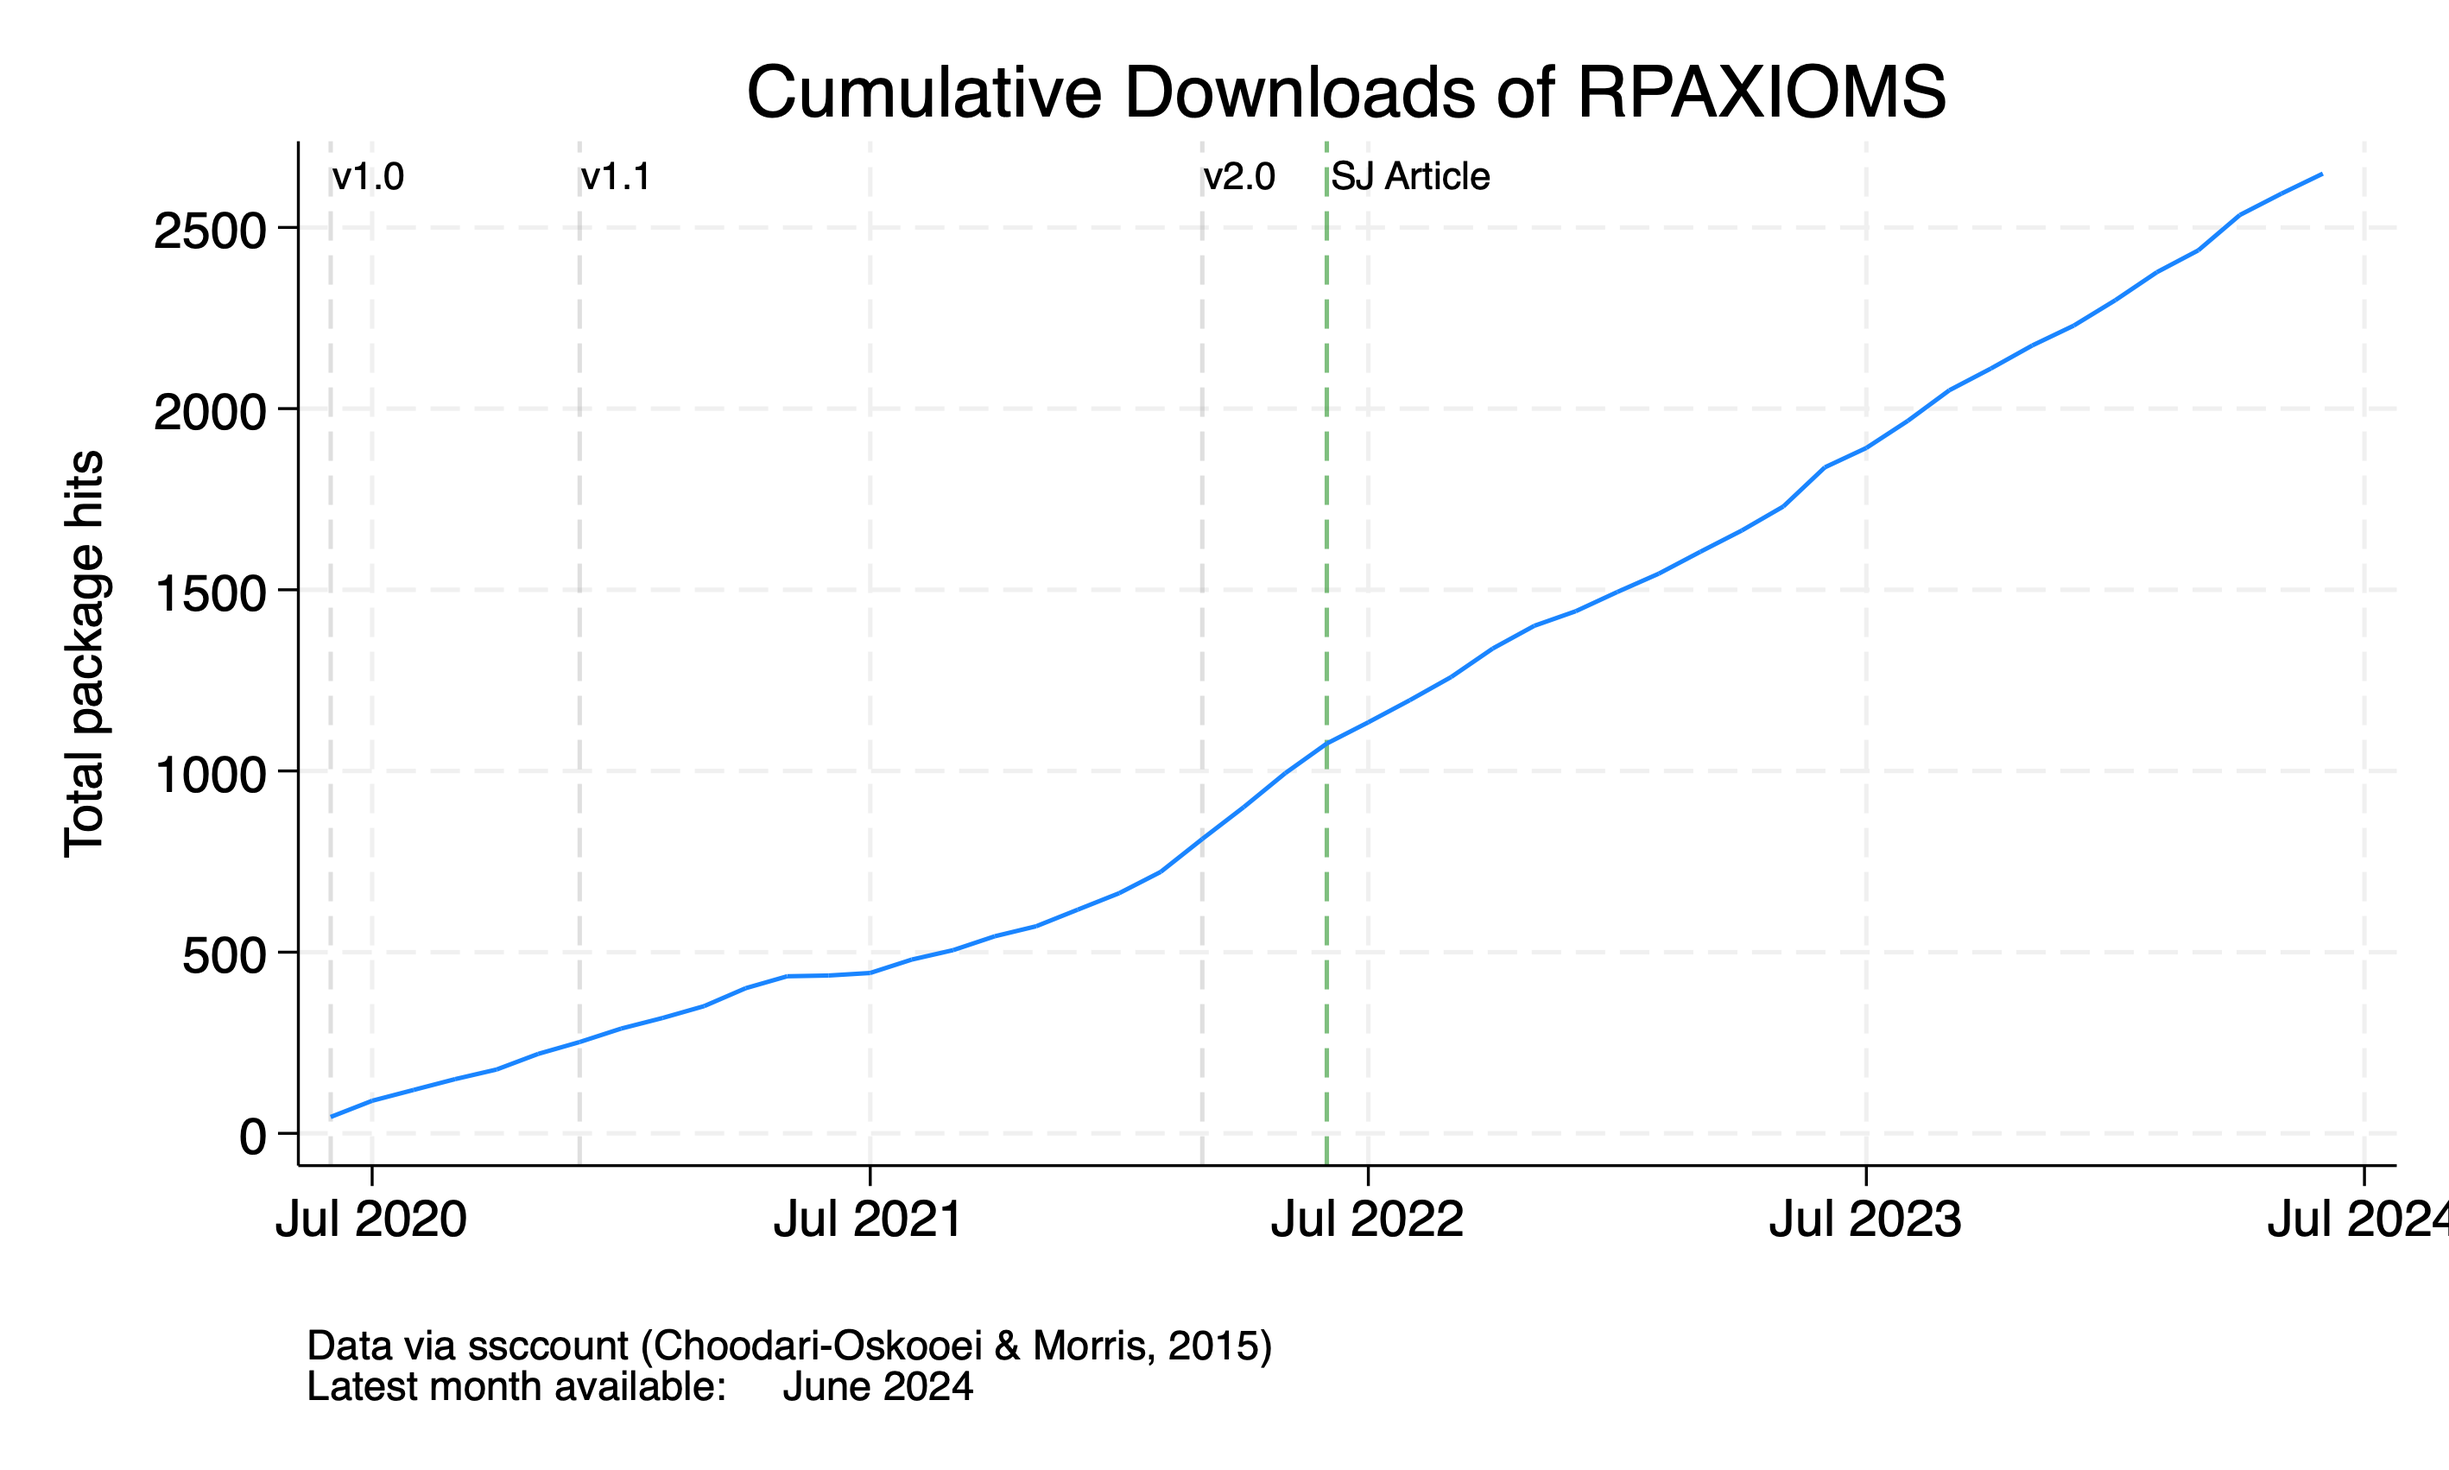
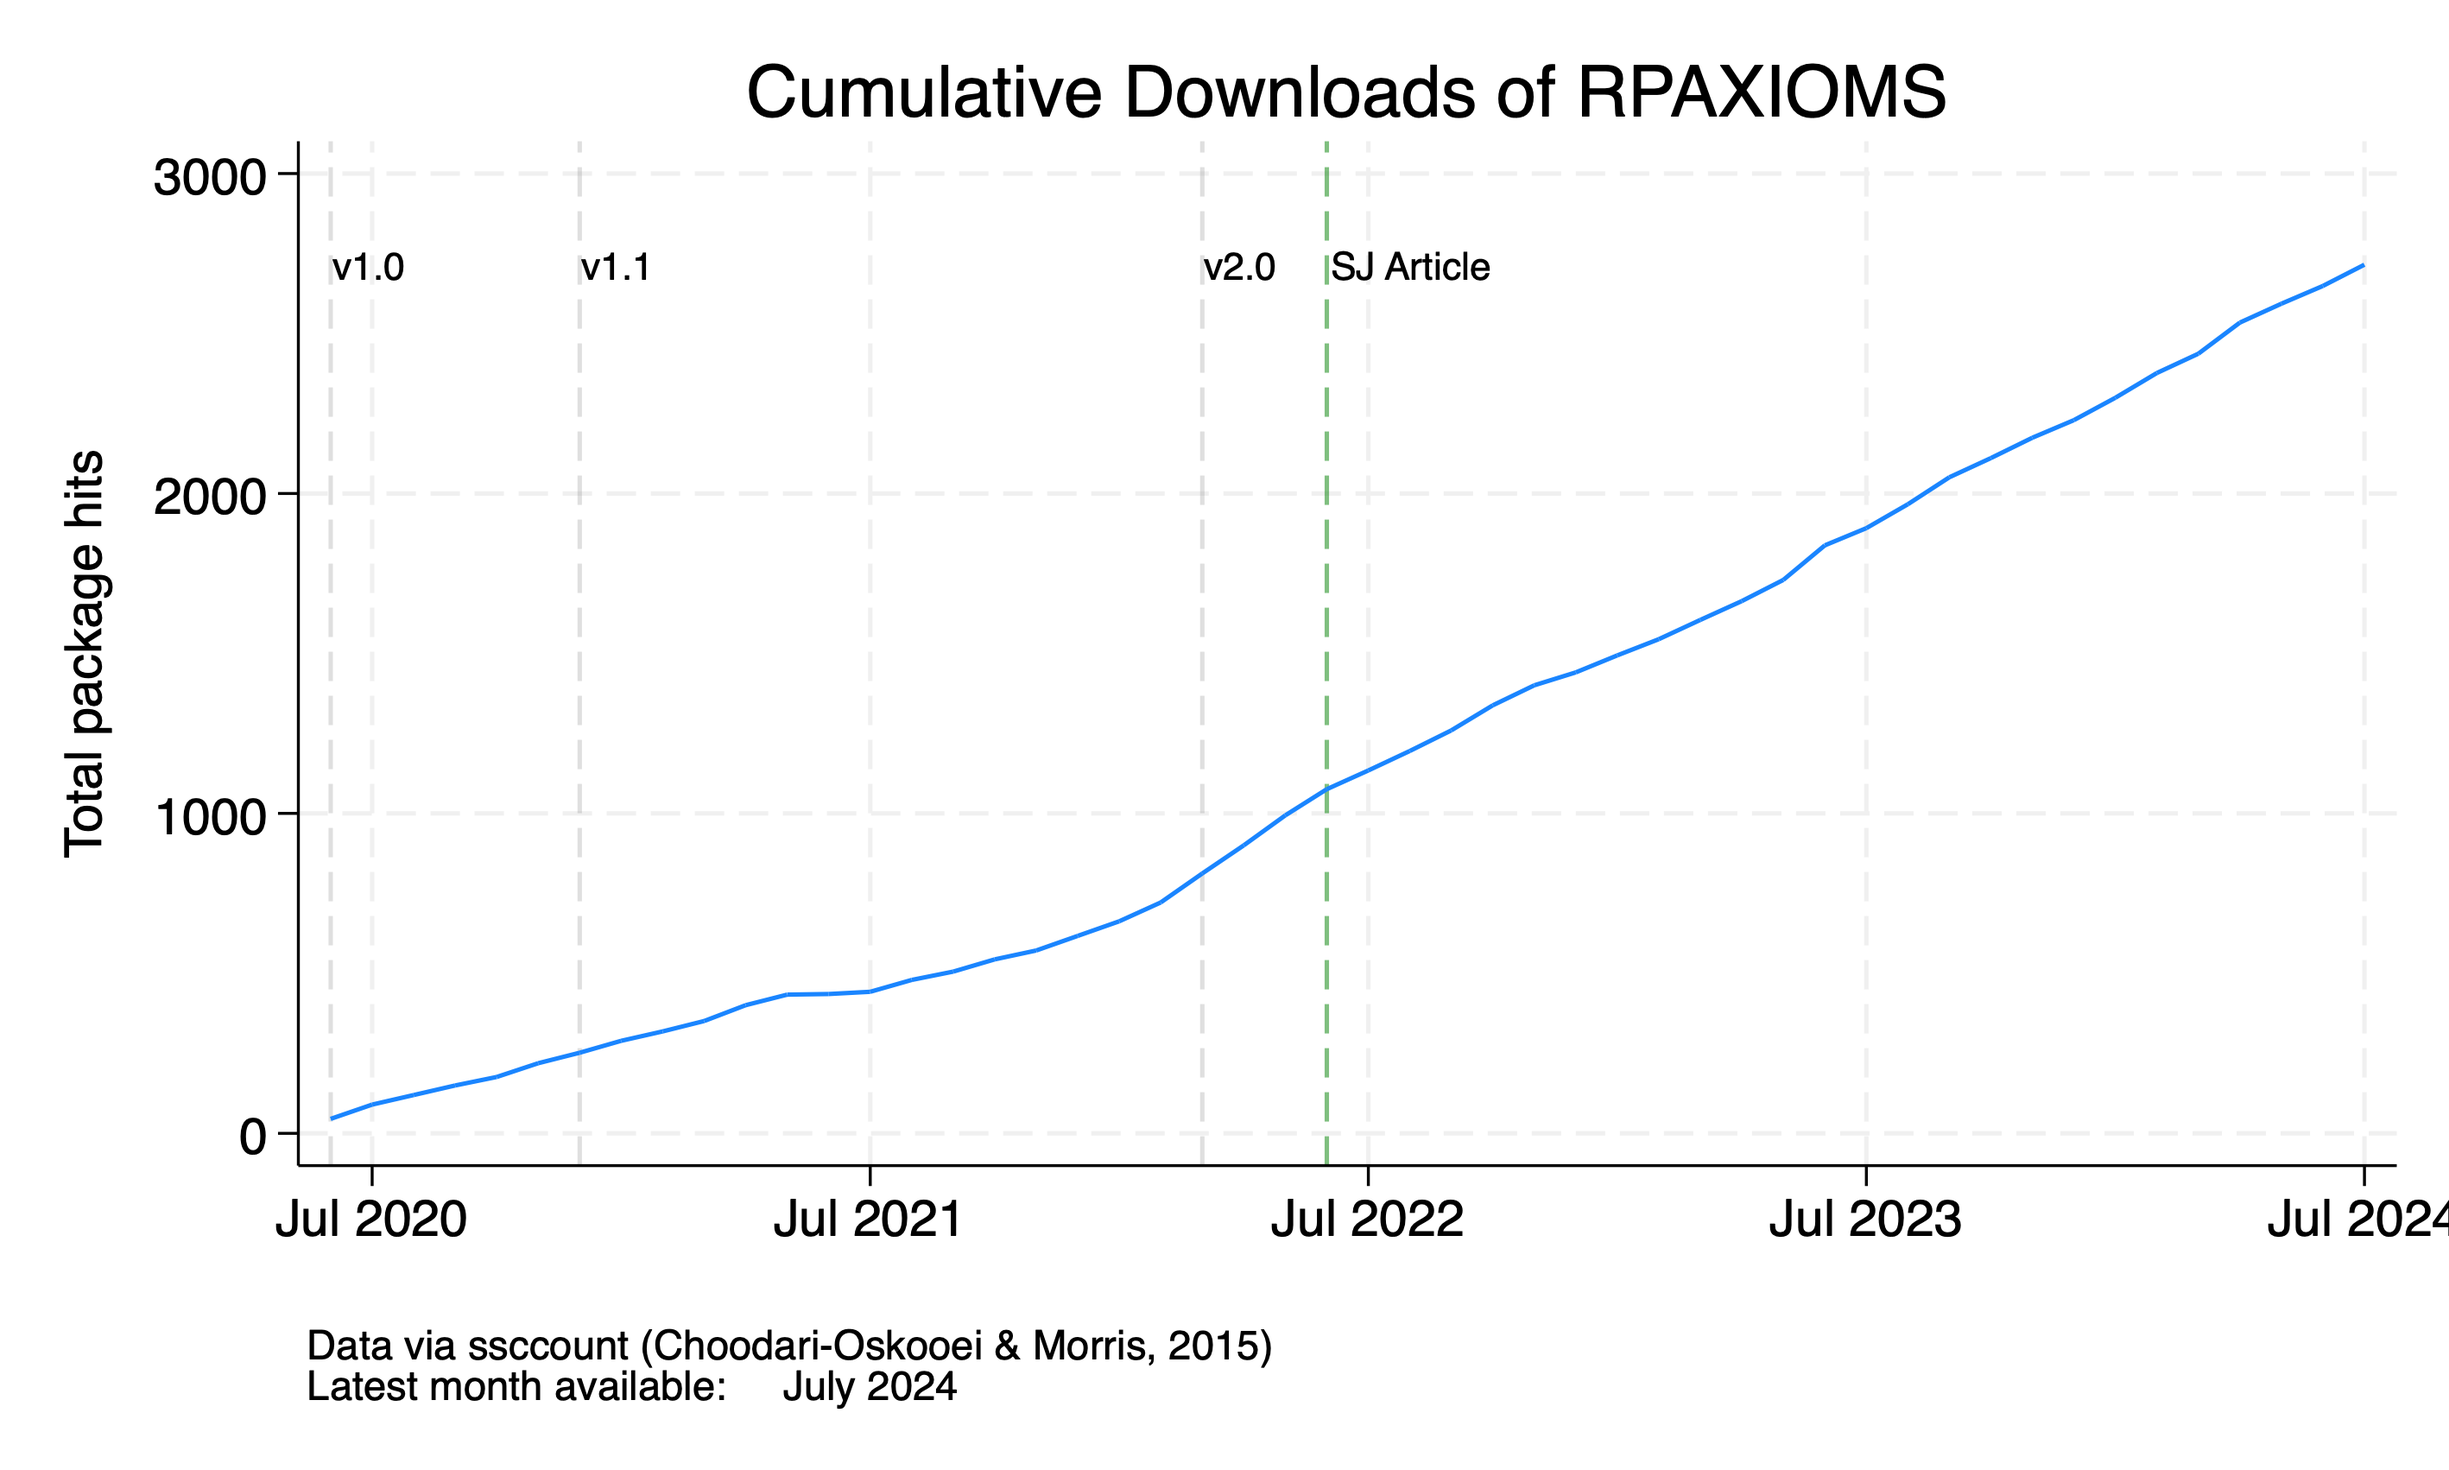
update npkghit

diff --git a/_posts/2022-07-01-rpaxioms.md b/_posts/2022-07-01-rpaxioms.md
@@ -17,7 +17,7 @@ household-level aggregate consumption data.
 ## Citation
 Demetry, M., Hjertstrand, P. and Polisson, M., 2022. Testing axioms of revealed preference in Stata. <i>The Stata Journal</i>, 22(2), pp.319-343.
 
-## Total downloads: 2,648
+## Total downloads: 2,715
 <img src="/assets/img/rpaxioms_cumulative_hits.png" alt="number of downloads" width="100%"/>
 
 <details>

diff --git a/_posts/2022-12-01-hmindex.md b/_posts/2022-12-01-hmindex.md
@@ -13,7 +13,7 @@ note introduces the _Stata_ command __hmindex__, which calculates the Houtman-Ma
 prices and observed choices of a consumer. The command is illustrated with an empirical application.
 
 
-## Total downloads: 1,366
+## Total downloads: 1,419
 <img src="/assets/img/hmindex_cumulative_hits.png" alt="number of downloads" width="100%"/>
 
 
